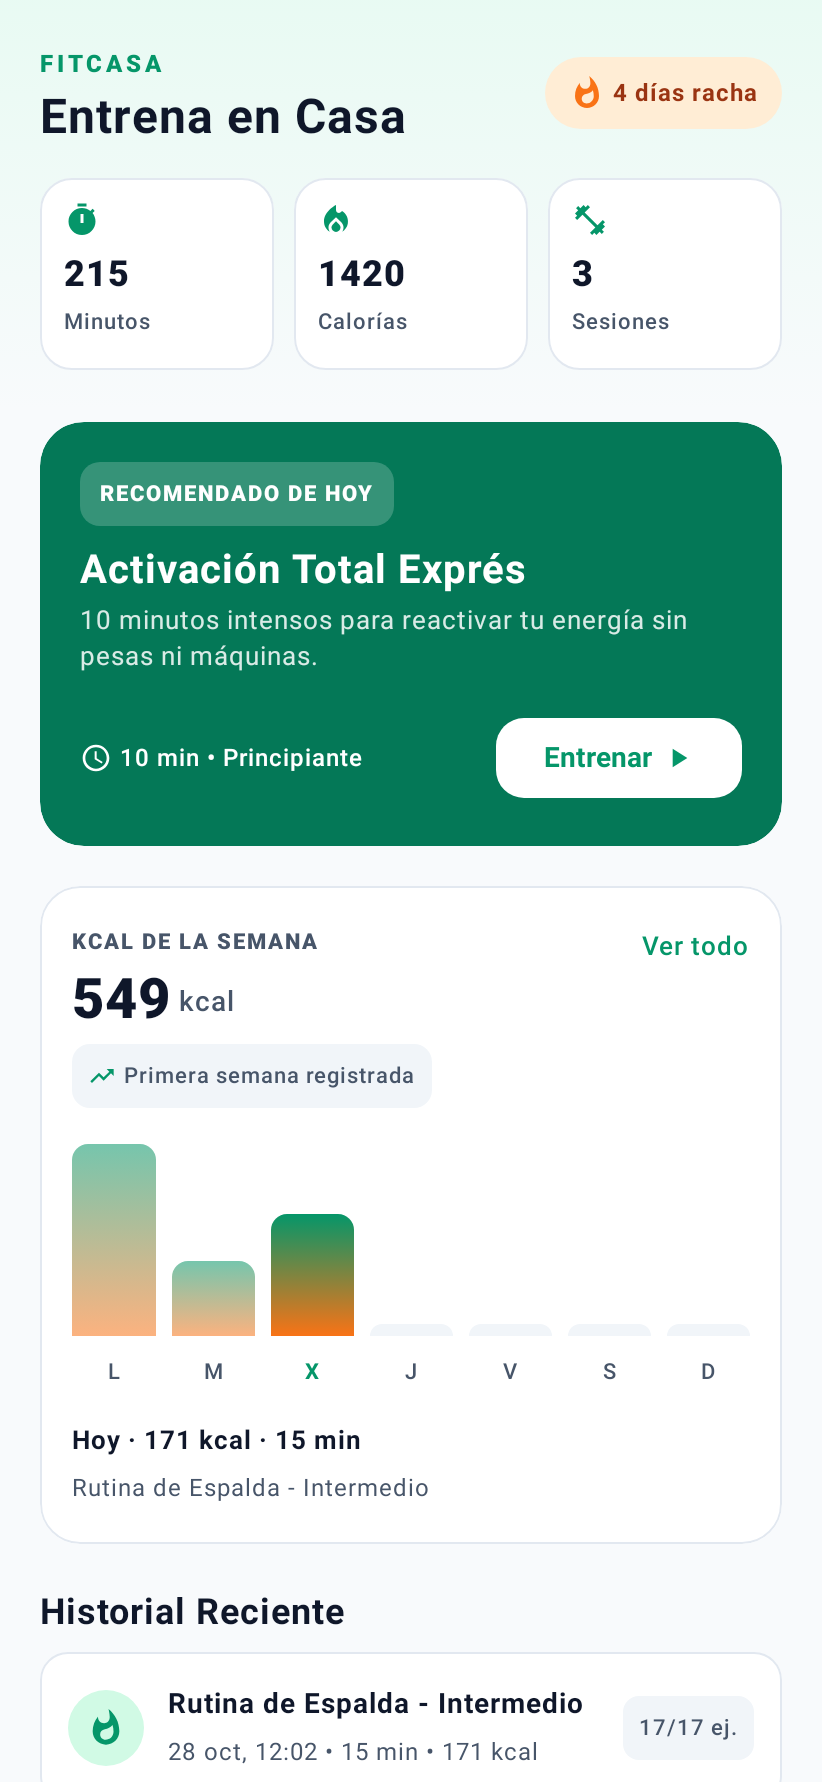
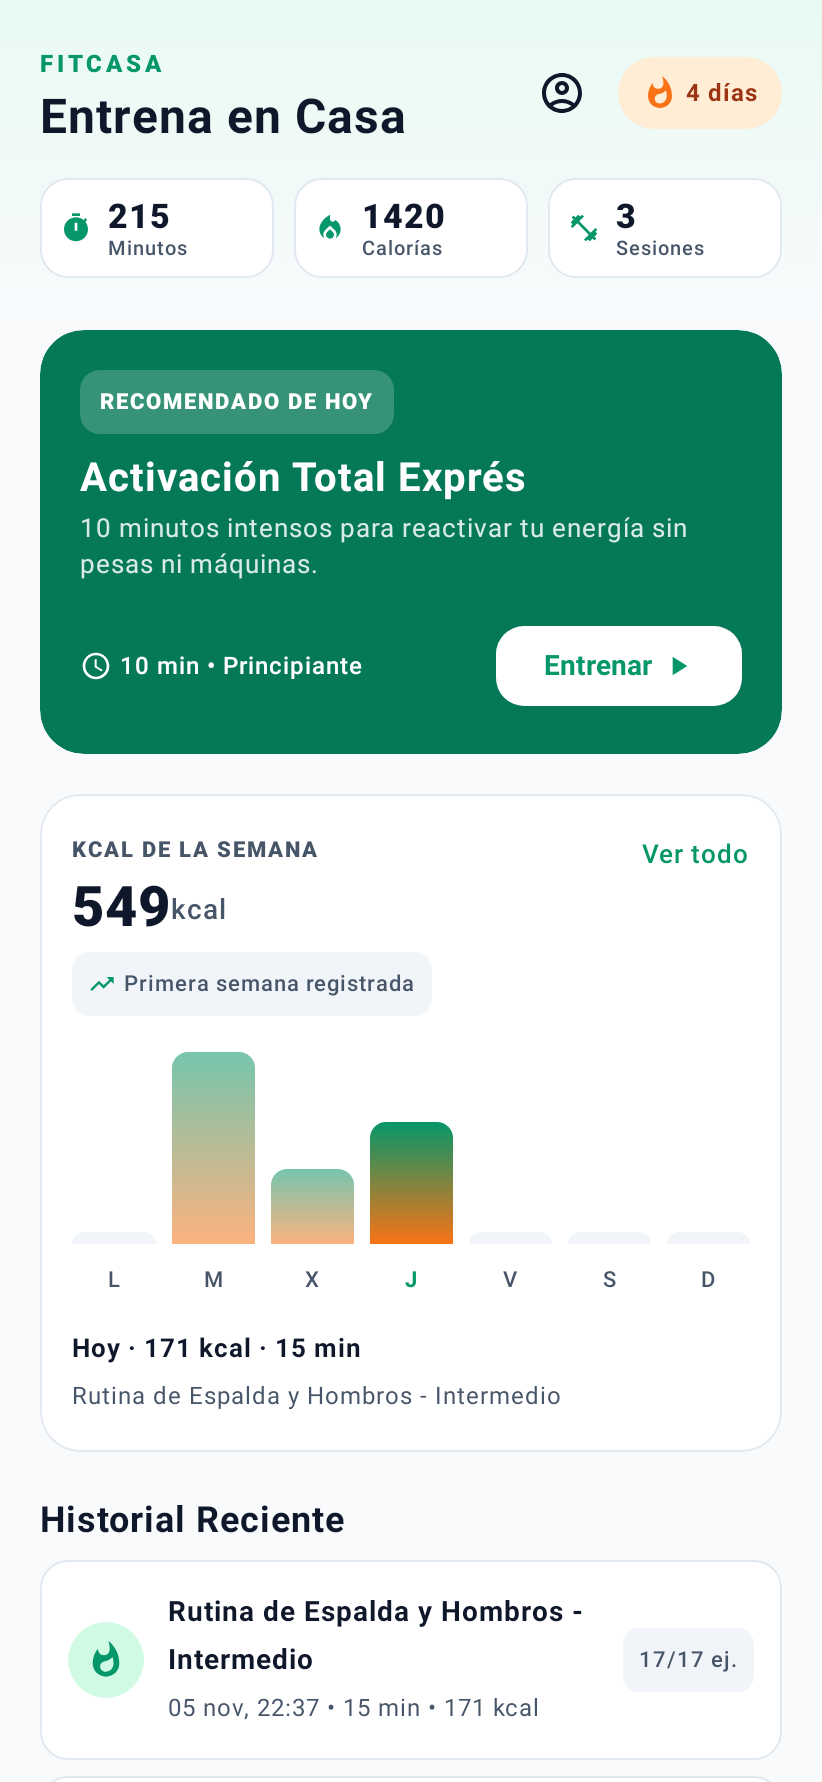
Bugs: rotación, quick start real y menos permisos
- La pantalla y la pestaña sobreviven a la recreación de la Activity; si el proceso muere sin plan se vuelve a Inicio.
- El botón Entrenar de Inicio arranca la rutina recomendada de 10 minutos en vez de abrir el configurador.
- Fuera el permiso de INTERNET: la app no hace peticiones de red.
- Capturas regeneradas en español, README al día y test de restauración de estado.

diff --git a/app/src/main/java/com/example/MainActivity.kt b/app/src/main/java/com/example/MainActivity.kt
@@ -35,6 +35,7 @@ import androidx.compose.runtime.LaunchedEffect
 import androidx.compose.runtime.getValue
 import androidx.compose.runtime.mutableStateOf
 import androidx.compose.runtime.remember
+import androidx.compose.runtime.saveable.rememberSaveable
 import androidx.compose.runtime.setValue
 import androidx.compose.ui.Modifier
 import androidx.compose.ui.graphics.vector.ImageVector
@@ -73,6 +74,14 @@ enum class ScreenState {
     SUMMARY
 }
 
+/**
+ * Tras restaurar el estado, una pantalla de entrenamiento o de resumen solo
+ * tiene sentido si el ViewModel conserva el plan. Si el proceso murió, el plan
+ * se perdió y hay que volver a la pestaña principal.
+ */
+internal fun restoredScreen(screen: ScreenState, hasPlan: Boolean): ScreenState =
+    if (screen != ScreenState.TABS && !hasPlan) ScreenState.TABS else screen
+
 class MainActivity : ComponentActivity() {
 
     /** En Android 12 y anteriores el idioma elegido en la app se aplica aquí. */
@@ -96,9 +105,11 @@ class MainActivity : ComponentActivity() {
 fun FitCasaApp(
     viewModel: WorkoutViewModel = viewModel()
 ) {
-    var currentScreen by remember { mutableStateOf(ScreenState.TABS) }
-    var selectedTab by remember { mutableStateOf(MainTab.HOME) }
-    var showProfileSheet by remember { mutableStateOf(false) }
+    // rememberSaveable: al girar el móvil la Activity se recrea y, sin esto,
+    // la app volvía a Inicio mientras la sesión seguía corriendo en el ViewModel.
+    var currentScreen by rememberSaveable { mutableStateOf(ScreenState.TABS) }
+    var selectedTab by rememberSaveable { mutableStateOf(MainTab.HOME) }
+    var showProfileSheet by rememberSaveable { mutableStateOf(false) }
 
     val context = LocalContext.current
     var appLanguage by remember { mutableStateOf(AppLanguage.current(context)) }
@@ -124,6 +135,13 @@ fun FitCasaApp(
         if (activeState.isCompleted && currentScreen == ScreenState.ACTIVE_WORKOUT) {
             currentScreen = ScreenState.SUMMARY
         }
+    }
+
+    // Si el sistema mata el proceso, la pantalla se restaura pero el ViewModel
+    // vuelve vacío: sin plan no hay entrenamiento ni resumen que enseñar, así
+    // que es mejor volver a Inicio que dejar una pantalla en blanco.
+    LaunchedEffect(currentScreen, activeState.plan) {
+        currentScreen = restoredScreen(currentScreen, hasPlan = activeState.plan != null)
     }
 
     // Handle back button for secondary tabs
@@ -199,12 +217,9 @@ fun FitCasaApp(
                                 totalCalories = totalCalories,
                                 recentWorkouts = history,
                                 onOpenProfile = { showProfileSheet = true },
-                                onStartQuickWorkout = { plan ->
-                                    viewModel.startWorkout(plan)
+                                onStartQuickWorkout = {
+                                    viewModel.startRecommendedWorkout()
                                     currentScreen = ScreenState.ACTIVE_WORKOUT
-                                },
-                                onNavigateToBuilder = {
-                                    selectedTab = MainTab.BUILDER
                                 },
                                 onNavigateToHistory = {
                                     selectedTab = MainTab.HISTORY

diff --git a/app/src/test/java/com/example/NavigationStateTest.kt b/app/src/test/java/com/example/NavigationStateTest.kt
@@ -1,0 +1,56 @@
+package com.example
+
+import androidx.activity.ComponentActivity
+import androidx.compose.ui.test.assertIsDisplayed
+import androidx.compose.ui.test.junit4.StateRestorationTester
+import androidx.compose.ui.test.junit4.createAndroidComposeRule
+import androidx.compose.ui.test.onNodeWithTag
+import androidx.compose.ui.test.performClick
+import androidx.test.ext.junit.runners.AndroidJUnit4
+import com.example.ui.theme.FitCasaTheme
+import org.junit.Assert.assertEquals
+import org.junit.Rule
+import org.junit.Test
+import org.junit.runner.RunWith
+import org.robolectric.annotation.Config
+import org.robolectric.annotation.GraphicsMode
+
+/**
+ * Al girar el móvil (o al recrear la Activity) el estado de navegación tiene
+ * que sobrevivir. Antes se perdía y la app volvía a Inicio mientras la sesión
+ * seguía corriendo en el ViewModel.
+ */
+@RunWith(AndroidJUnit4::class)
+@GraphicsMode(GraphicsMode.Mode.NATIVE)
+@Config(sdk = [36], qualifiers = "w411dp-h891dp-xhdpi")
+class NavigationStateTest {
+
+    @get:Rule
+    val composeRule = createAndroidComposeRule<ComponentActivity>()
+
+    @Test
+    fun `la pestana se conserva al restaurar el estado`() {
+        val tester = StateRestorationTester(composeRule)
+        tester.setContent {
+            FitCasaTheme { FitCasaApp() }
+        }
+
+        composeRule.onNodeWithTag("nav_builder").performClick()
+        composeRule.onNodeWithTag("builder_back_button").assertIsDisplayed()
+
+        tester.emulateSavedInstanceStateRestore()
+
+        composeRule.onNodeWithTag("builder_back_button").assertIsDisplayed()
+    }
+
+    @Test
+    fun `sin plan no se restaura una pantalla de entrenamiento`() {
+        assertEquals(ScreenState.TABS, restoredScreen(ScreenState.ACTIVE_WORKOUT, hasPlan = false))
+        assertEquals(ScreenState.TABS, restoredScreen(ScreenState.SUMMARY, hasPlan = false))
+        assertEquals(
+            ScreenState.ACTIVE_WORKOUT,
+            restoredScreen(ScreenState.ACTIVE_WORKOUT, hasPlan = true)
+        )
+        assertEquals(ScreenState.SUMMARY, restoredScreen(ScreenState.SUMMARY, hasPlan = true))
+    }
+}

diff --git a/app/src/main/java/com/example/ui/screens/HomeScreen.kt b/app/src/main/java/com/example/ui/screens/HomeScreen.kt
@@ -54,7 +54,6 @@ import androidx.compose.ui.unit.sp
 import com.example.R
 import com.example.data.local.WorkoutEntity
 import com.example.data.model.IntensityLevel
-import com.example.data.model.WorkoutPlan
 import com.example.ui.components.WeeklyCaloriesChart
 import com.example.ui.displayTitle
 import com.example.ui.rememberAppLocale
@@ -69,8 +68,7 @@ fun HomeScreen(
     totalCalories: Int,
     recentWorkouts: List<WorkoutEntity>,
     onOpenProfile: () -> Unit,
-    onStartQuickWorkout: (WorkoutPlan) -> Unit,
-    onNavigateToBuilder: () -> Unit,
+    onStartQuickWorkout: () -> Unit,
     onNavigateToHistory: () -> Unit,
     modifier: Modifier = Modifier
 ) {
@@ -261,9 +259,7 @@ fun HomeScreen(
                         }
 
                         Button(
-                            onClick = {
-                                onNavigateToBuilder()
-                            },
+                            onClick = onStartQuickWorkout,
                             colors = ButtonDefaults.buttonColors(
                                 containerColor = Color.White,
                                 contentColor = MaterialTheme.colorScheme.primary

diff --git a/app/src/main/java/com/example/ui/viewmodel/WorkoutViewModel.kt b/app/src/main/java/com/example/ui/viewmodel/WorkoutViewModel.kt
@@ -253,6 +253,21 @@ class WorkoutViewModel(application: Application) : AndroidViewModel(application)
         startTimerLoop()
     }
 
+    /**
+     * Rutina recomendada de la portada: 10 minutos de cuerpo completo para
+     * principiantes. Se genera en el momento de pulsar "Entrenar" para que las
+     * kcal salgan con el perfil actual.
+     */
+    fun startRecommendedWorkout() {
+        val plan = repository.generateWorkoutPlan(
+            bodyPart = BodyPart.CUERPO_COMPLETO,
+            intensity = IntensityLevel.PRINCIPIANTE,
+            targetDurationMinutes = RECOMMENDED_DURATION_MINUTES,
+            profile = _profile.value
+        )
+        startWorkout(plan)
+    }
+
     /** El usuario ya está en posición: empieza a contar el ejercicio actual. */
     fun startCurrentStep() {
         val state = _activeWorkoutState.value
@@ -567,3 +582,6 @@ class WorkoutViewModel(application: Application) : AndroidViewModel(application)
 }
 
 private const val TICK_MS = 1000L
+
+/** Duración de la rutina recomendada de la portada (solo trabajo principal). */
+private const val RECOMMENDED_DURATION_MINUTES = 10

diff --git a/app/src/test/java/com/example/ScreenshotTest.kt b/app/src/test/java/com/example/ScreenshotTest.kt
@@ -49,7 +49,7 @@ import java.io.FileOutputStream
  */
 @RunWith(AndroidJUnit4::class)
 @GraphicsMode(GraphicsMode.Mode.NATIVE)
-@Config(sdk = [36], qualifiers = "w411dp-h891dp-xhdpi")
+@Config(sdk = [36], qualifiers = "es-rES-w411dp-h891dp-xhdpi")
 class ScreenshotTest {
 
     @get:Rule
@@ -116,7 +116,6 @@ class ScreenshotTest {
             recentWorkouts = history,
             onOpenProfile = {},
             onStartQuickWorkout = {},
-            onNavigateToBuilder = {},
             onNavigateToHistory = {}
         )
     }
